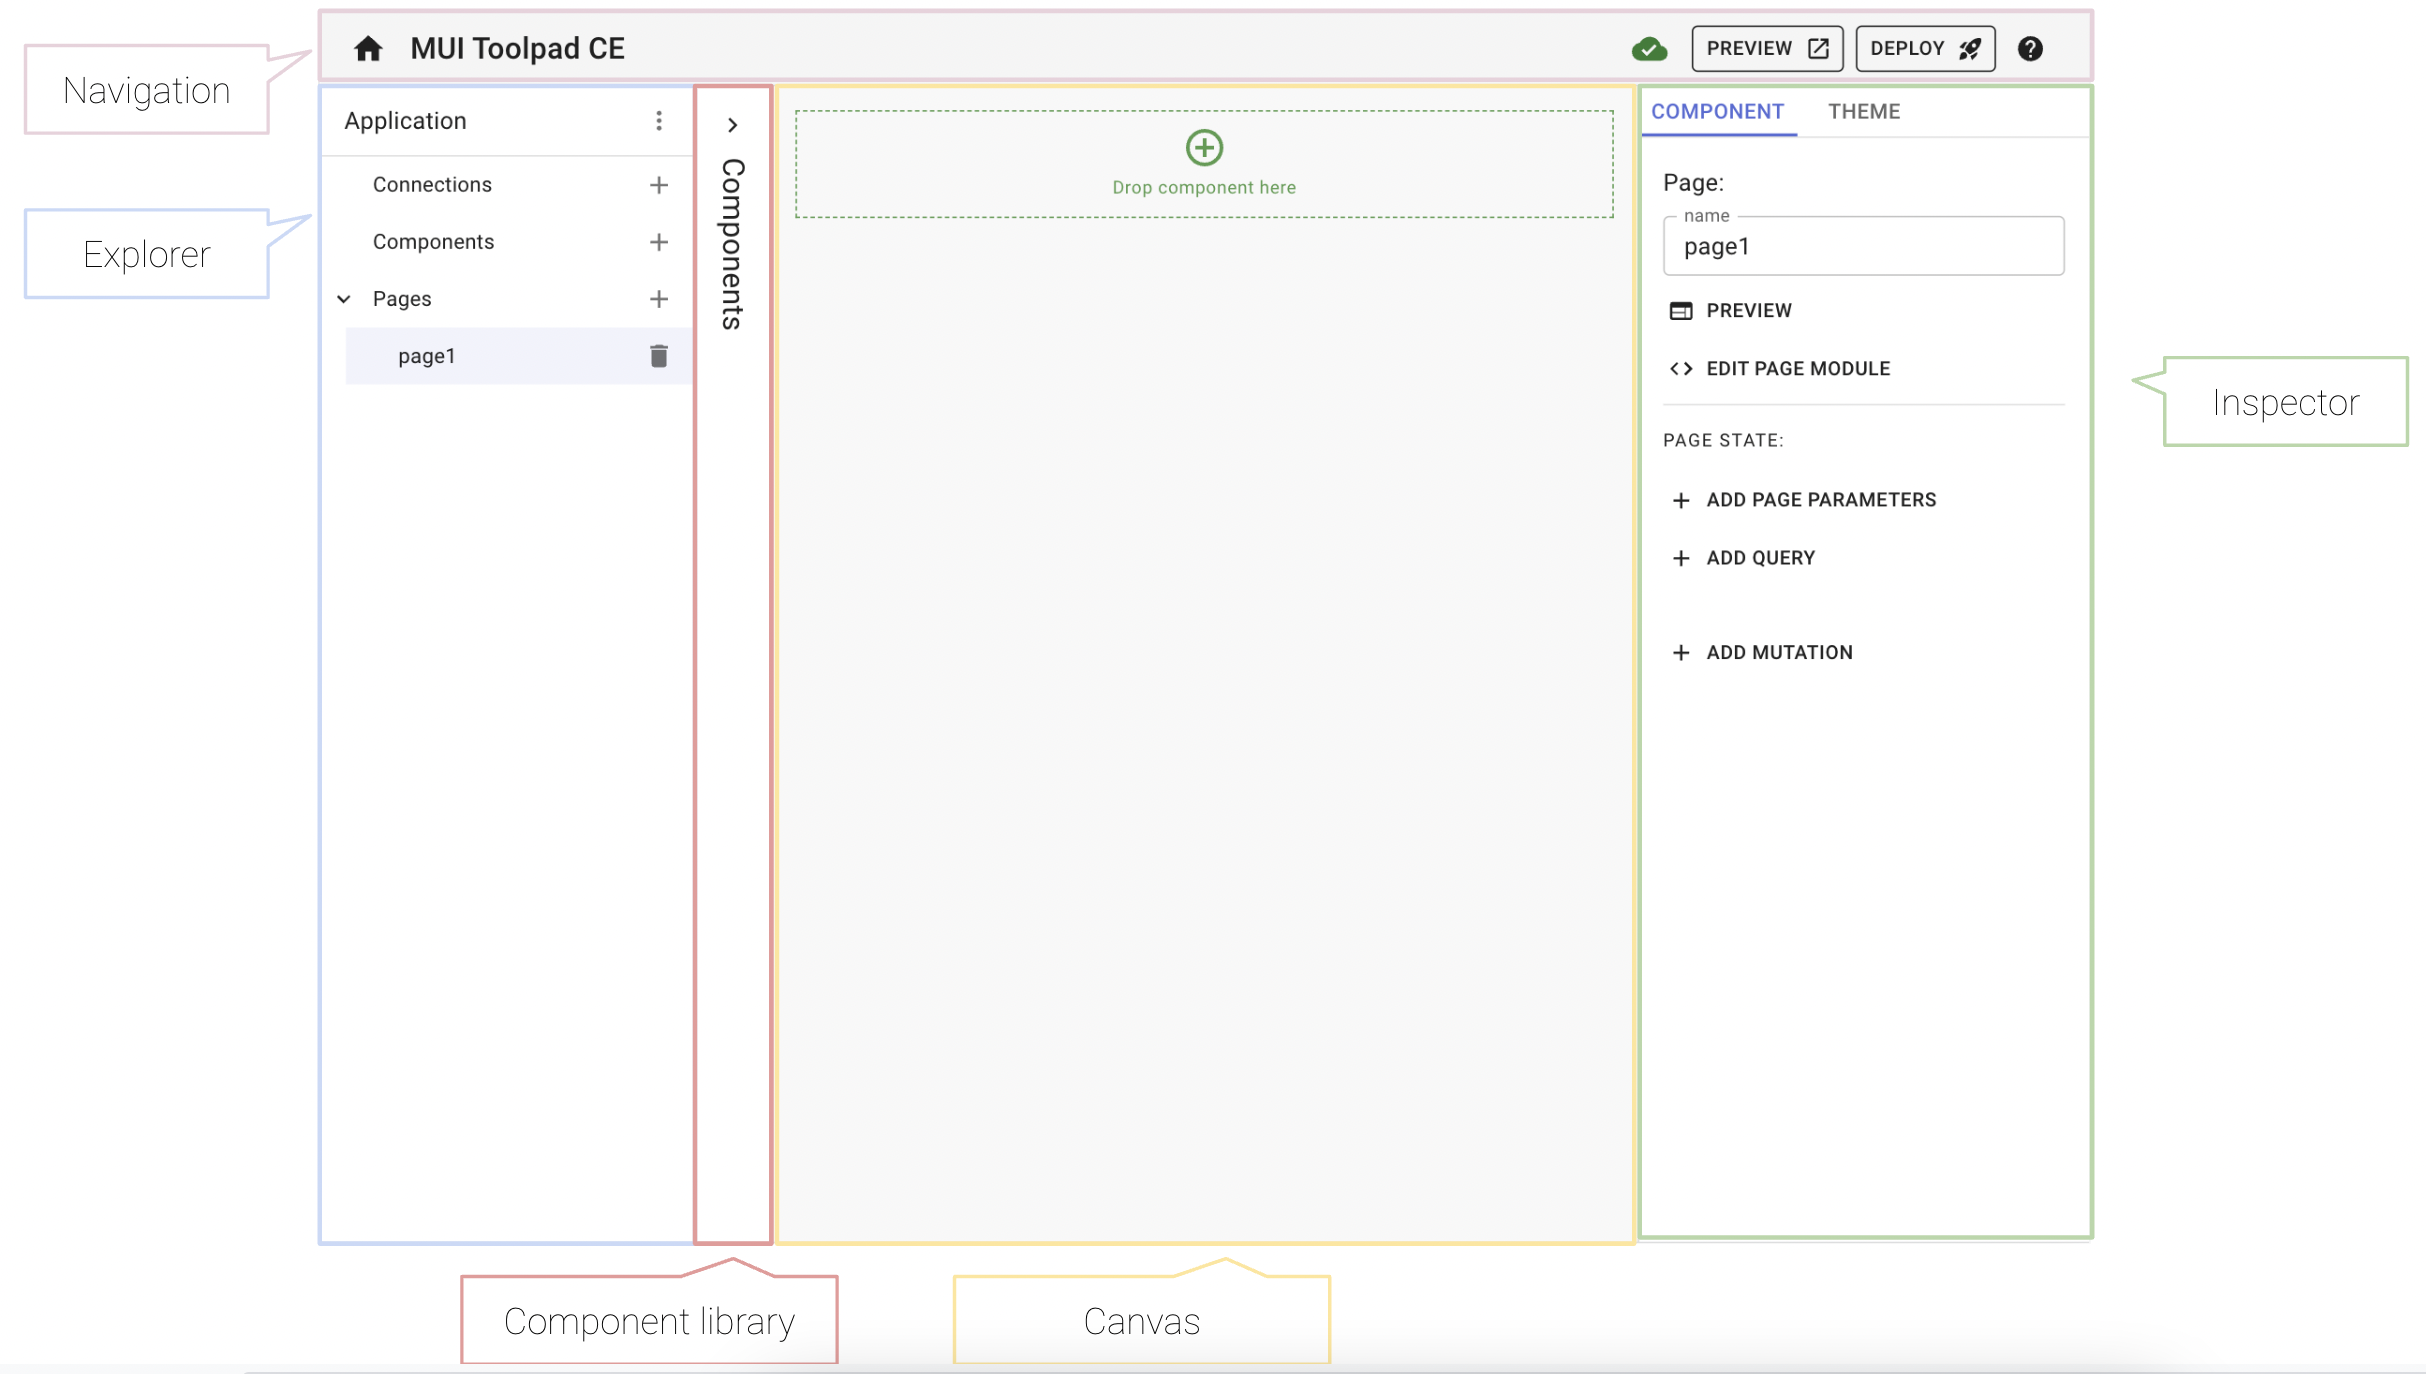
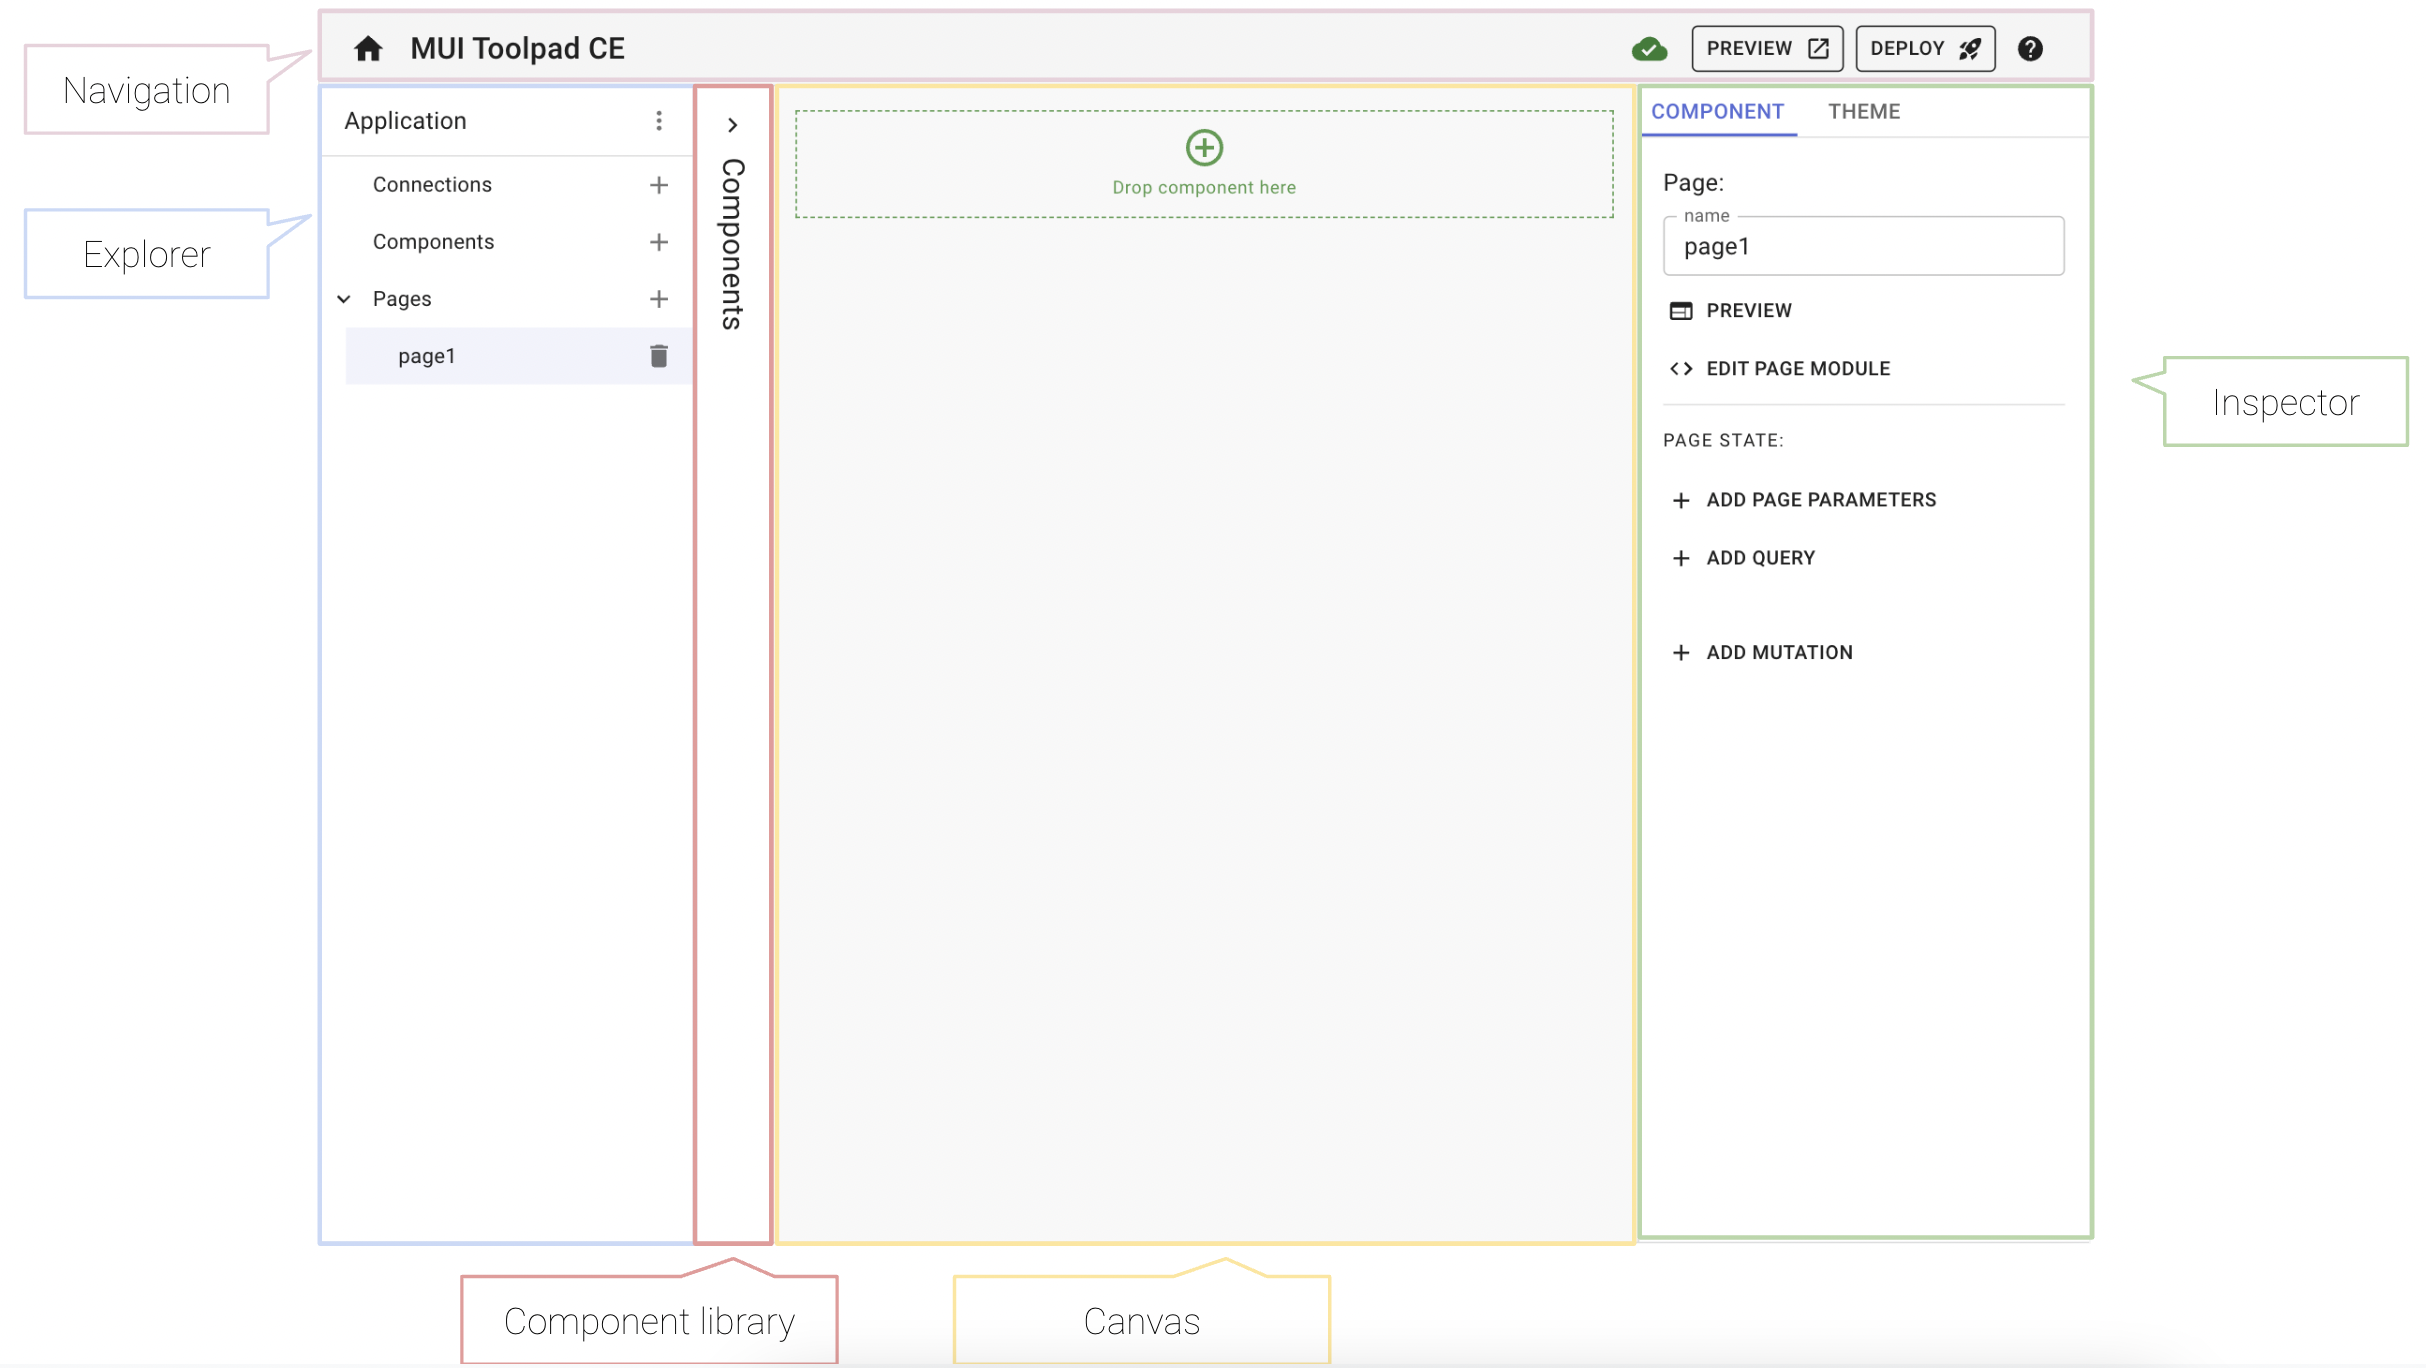
Fix overview images

diff --git a/docs/data/toolpad/getting-started/overview.md b/docs/data/toolpad/getting-started/overview.md
@@ -10,7 +10,7 @@ Toolpad is a self-hosted low-code internal tools builder designed to extend MUI'
 It's designed for developers of all trades who want to save time building internal applications.
 Drag and drop pre-built UI components, connect your data sources, release your app, and you're done!
 
-![Editor screenshot](/static/toolpad/marketing/index-hero-video-poster.jpg)
+<img src="/static/toolpad/marketing/index-hero-video-poster.jpg" alt="Editor screenshot" width="600px" />
 
 ## Advantages of Toolpad
 
@@ -21,7 +21,7 @@ Drag and drop pre-built UI components, connect your data sources, release your a
 
 ## Toolpad terminology
 
-![Toolpad app](/static/toolpad/terminology.png)
+<img src="/static/toolpad/terminology.png" alt="Toolpad app" width="800px" />
 
 These are the primary elements of the Toolpad interface:
 
